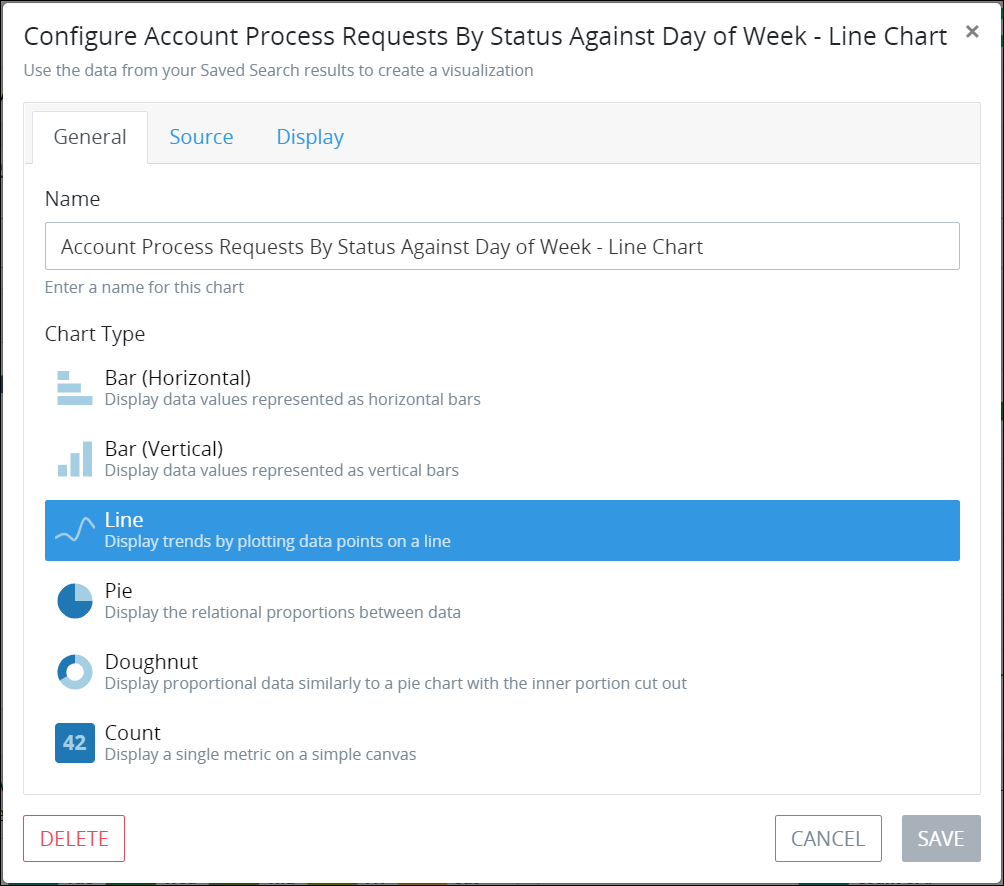
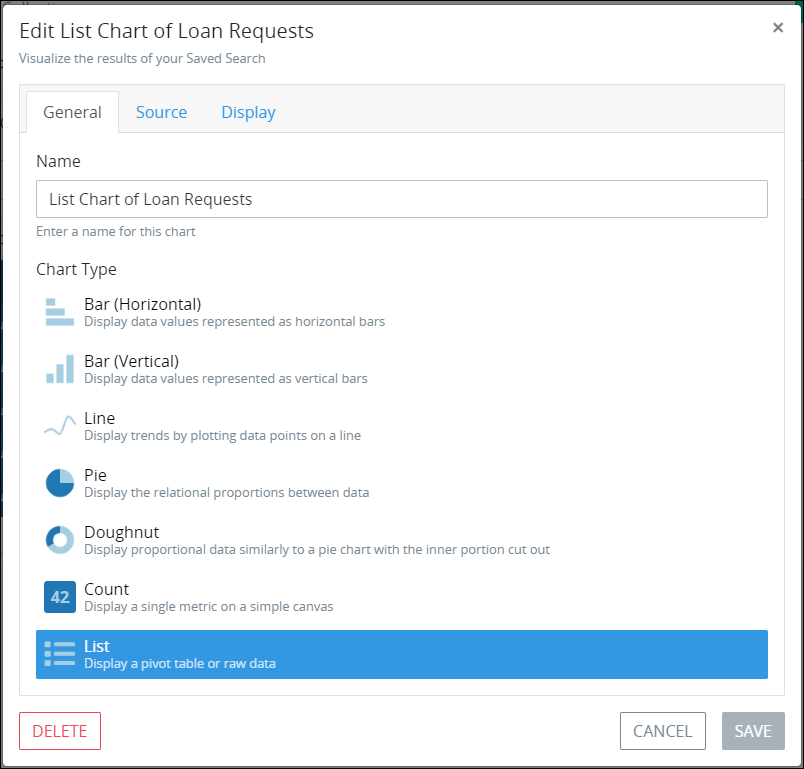
GitBook: [processmaker] 3 pages and 4 assets modified

diff --git a/using-processmaker/save-and-share-request-and-task-related-searches/create-charts-to-visualize-saved-search-results/configure-a-saved-search-chart.md b/using-processmaker/save-and-share-request-and-task-related-searches/create-charts-to-visualize-saved-search-results/configure-a-saved-search-chart.md
@@ -26,6 +26,7 @@ Follow these steps to edit a Saved Search chart:
      * **Pie:** The pie chart visualizes Saved Search results as relational proportions between data. See [chart example](overview-of-saved-search-charts.md#pie-chart).
      * **Doughnut:** The doughnut chart visualizes Saved Search results as relational proportions between data similarly to the pie chart type but with the inner portion removed. See [chart example](overview-of-saved-search-charts.md#doughnut-chart).
      * **Count:** The count chart displays a single data metric on a canvas. See [chart example](overview-of-saved-search-charts.md#count).
+     * **List:** The list chart displays chart data in tabular format. See [chart example](overview-of-saved-search-charts.md#list-chart). 
    * Click the **Source** tab to configure from which Saved Search's results to visualize in the chart. ![](../../../.gitbook/assets/source-tab-configure-edit-chart-saved-searches-package.png) 
    * From the **Series** setting, select how to group the chart data. The [series](overview-of-saved-search-charts.md#series) groups the chart content by the units of measurement in the X-axis for applicable chart types. See [chart example that references the series grouping](overview-of-saved-search-charts.md#example-chart). The **Series** setting does not apply to count charts. Options that display in the **Series** drop-down menu derive from the columns configured from the Saved Search tabular data as displayed from the **Data** tab of this Saved Search. The default configurable columns vary for each type of Saved Search. The **Recommended** indicator for Saved Search results represent dates, numbers, and/or unique text results and are recommended when configuring the chart series. This is a required setting for applicable charts.
    * From the **Category** setting, optionally select a secondary measurement by which to aggregate the chart series. See [chart example that references the category measurement](overview-of-saved-search-charts.md#example-chart). The **Category** setting does not apply to count charts. Options and their recommendations that display in the **Category** setting are the same as those in the **Series** setting.

diff --git a/using-processmaker/save-and-share-request-and-task-related-searches/create-charts-to-visualize-saved-search-results/create-a-saved-search-chart.md b/using-processmaker/save-and-share-request-and-task-related-searches/create-charts-to-visualize-saved-search-results/create-a-saved-search-chart.md
@@ -18,7 +18,7 @@ Follow these steps to create a chart for a type of Saved Search:
 
 1. [View the search results for a Saved Search](../view-saved-searches-that-are-shared-with-you/view-search-results-for-a-saved-search.md) in which to create a chart. The **Data** tab displays the data details for that Saved Search.
 2. Click the **Charts** tab. The **Charts** tab displays all charts created for this Saved Search.
-3. Click the **+Chart** button. The **Create Chart** screen displays the **General** tab. ![](../../../.gitbook/assets/general-tab-create-chart-screen-saved-searches-package.png) 
+3. Click the **+Chart** button. The **Create Chart** screen displays the **General** tab. ![](../../../.gitbook/assets/general-tab-create-a-chart-saved-searches-package.png) 
 4. In the **Name** setting, enter the name of the chart. This is a required setting.
 5. From the **Chart Type** group, select one of the following chart types to visualize the results of this Saved Search:
 
@@ -28,6 +28,7 @@ Follow these steps to create a chart for a type of Saved Search:
    * **Pie:** The pie chart visualizes Saved Search results as relational proportions between data. See [chart example](overview-of-saved-search-charts.md#pie-chart).
    * **Doughnut:** The doughnut chart visualizes Saved Search results as relational proportions between data similarly to the pie chart type but with the inner portion removed. See [chart example](overview-of-saved-search-charts.md#doughnut-chart).
    * **Count:** The count chart displays a single data metric on a canvas. See [chart example](overview-of-saved-search-charts.md#count).
+   * **List:** The list chart displays chart data in tabular format. See [chart example](overview-of-saved-search-charts.md#list-chart).
 
    **Bar \(Horizontal\)** is the default chart type.
 

diff --git a/using-processmaker/save-and-share-request-and-task-related-searches/create-charts-to-visualize-saved-search-results/overview-of-saved-search-charts.md b/using-processmaker/save-and-share-request-and-task-related-searches/create-charts-to-visualize-saved-search-results/overview-of-saved-search-charts.md
@@ -104,7 +104,8 @@ See the following Saved Search chart types:
 * [Line chart](overview-of-saved-search-charts.md#line-chart)
 * [Pie chart](overview-of-saved-search-charts.md#pie-chart)
 * [Doughnut chart](overview-of-saved-search-charts.md#doughnut-chart)
-* [Count](overview-of-saved-search-charts.md#count)
+* [Count chart](overview-of-saved-search-charts.md#count)
+* [List chart](overview-of-saved-search-charts.md#list-chart)
 
 #### Bar Chart \(Horizontal\)
 
@@ -136,11 +137,17 @@ The doughnut chart visualizes Saved Search results as relational proportions bet
 
 ![Number of Requests by status type for the Loan Process](../../../.gitbook/assets/doughnut-chart-example-saved-searches-package.png)
 
-#### Count
+#### Count Chart
 
 The count chart displays a single data metric on a canvas. The following count chart shows how many records are in the "Department" [ProcessMaker Collection](../../../collections/what-is-a-collection.md).
 
 ![Number of records in the &quot;Department&quot; ProcessMaker Collection.](../../../.gitbook/assets/count-chart-example-saved-searches-package.png)
+
+#### List Chart
+
+The list chart displays a pivot table or raw data. The following list chart shows the Loan Requests.  
+
+![List Chart of Loan Requests](../../../.gitbook/assets/list-chart-saved-searches-package.png)
 
 ## Related Topics
 
